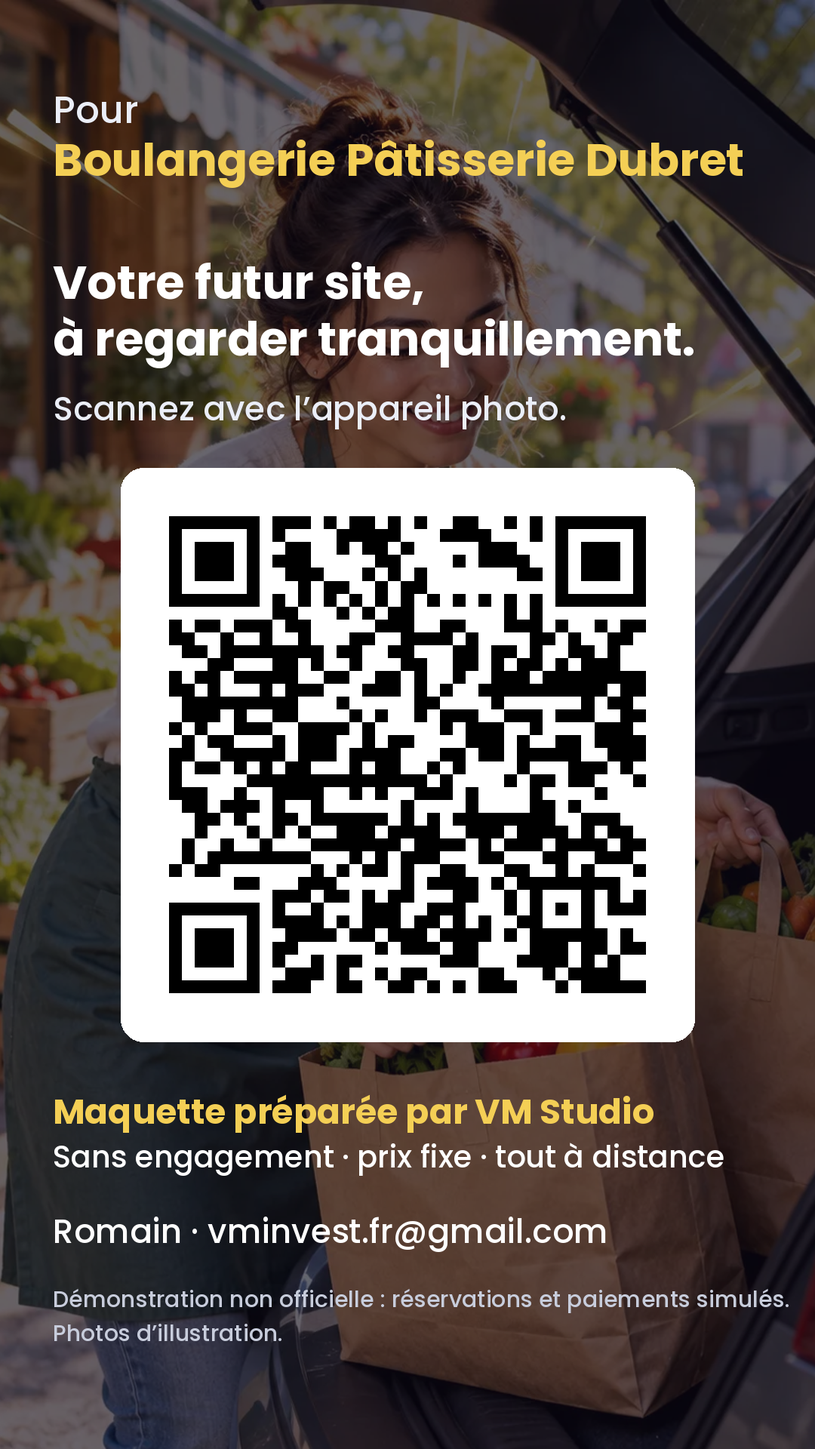
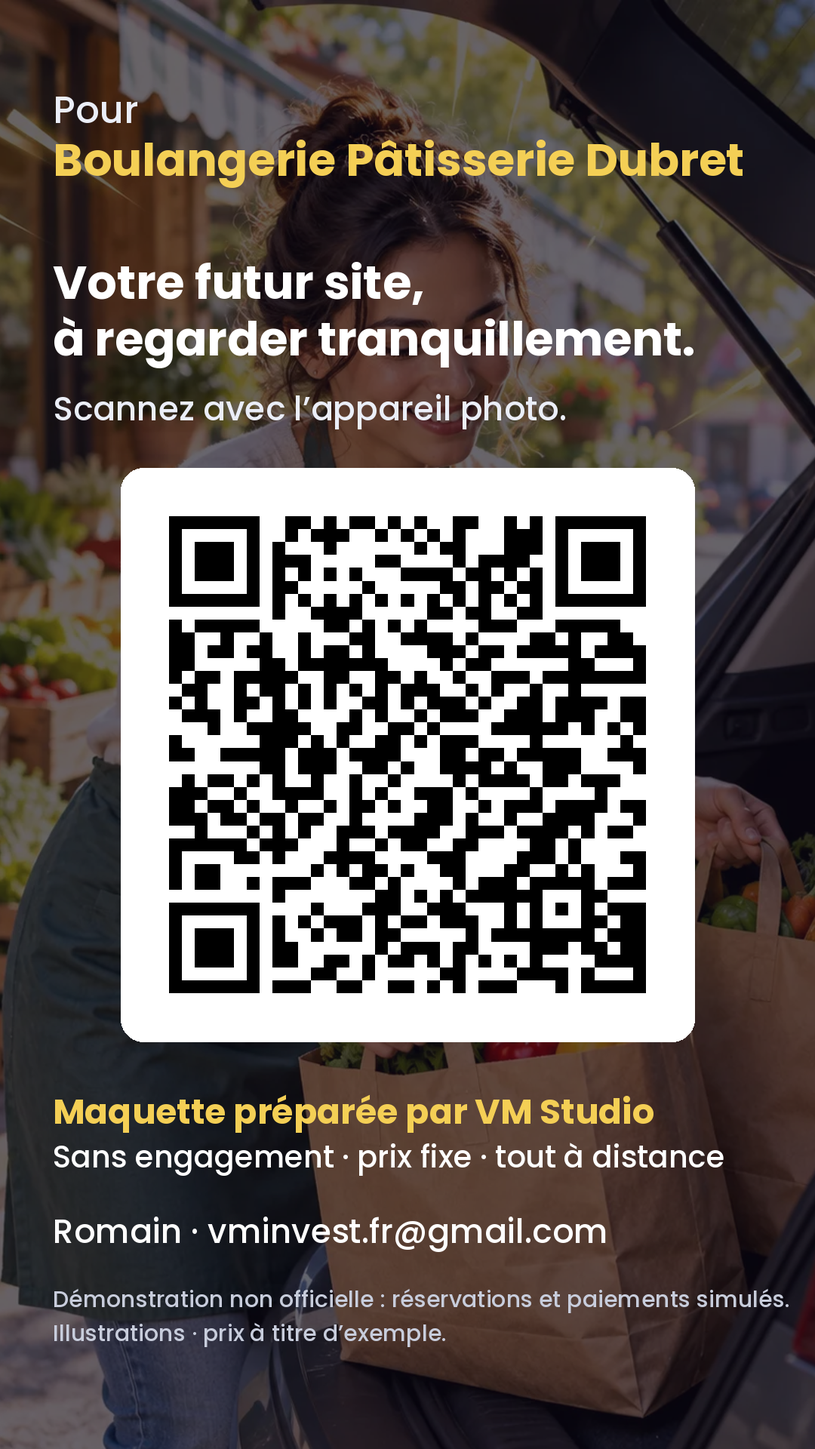
Démos clients : sans date de fin (choix de Romain), prix signalés comme exemples, salons féminins
Claude-Session: https://claude.ai/code/session_01P5NxQT71HyV29YBTs2kxP1

Changed region(s): [[0.1833, 0.3438, 0.7944, 0.6875], [0.0611, 0.9062, 0.3667, 0.9375], [0.3972, 0.9062, 0.55, 0.9375]]

diff --git a/demos/clients/ma-creation-cc11adf3a2.html b/demos/clients/ma-creation-cc11adf3a2.html
@@ -8,10 +8,22 @@
 <link rel="stylesheet" href="/demos/kit/vm-demo.css?v=20261023-audit">
 <style>:root{--a:#b4536f;--b:#e8c4a0;--ink:#2a1a22;--bg:#fbf5f2}</style>
 <link rel="preload" as="image" href="/demos/img/coiffeur/hero.webp" fetchpriority="high">
-<!-- Cloudflare Web Analytics --><script id="vm-cfwa">(function(h){if(h==='velocemercato.fr'||h==='www.velocemercato.fr'){var s=document.createElement('script');s.defer=true;s.src='https://static.cloudflareinsights.com/beacon.min.js';s.setAttribute('data-cf-beacon','{"token": "35ce3d9fb9144124a0bb97db4e89dbb2"}');document.head.appendChild(s)}})(location.hostname)</script></head><body>
-<div id="vm-exemple" style="position:sticky;top:0;z-index:99;background:#e1243a;color:#fff;font:700 14px/1.35 system-ui,sans-serif;padding:10px 14px;text-align:center">Exemple privé préparé pour Ma Création, visible jusqu’au jeudi 29 octobre à 19 h. Les photos viennent de votre page Planity et disparaissent ensuite automatiquement.</div>
+<!-- Cloudflare Web Analytics --><script id="vm-cfwa">(function(h){if(h==='velocemercato.fr'||h==='www.velocemercato.fr'){var s=document.createElement('script');s.defer=true;s.src='https://static.cloudflareinsights.com/beacon.min.js';s.setAttribute('data-cf-beacon','{"token": "35ce3d9fb9144124a0bb97db4e89dbb2"}');document.head.appendChild(s)}})(location.hostname)</script><style id="vm-feminin">
+/* Style féminin : tons poudrés, titres élégants, sans effets BD */
+.vd-hero{background:linear-gradient(160deg,#fff6f8 0%,#fbe3ea 55%,#f5d0dc 100%)!important;color:var(--ink)!important}
+.vd-hero:before{background:radial-gradient(circle at 80% 20%,color-mix(in srgb,var(--a) 18%,transparent) 0 35%,transparent 36%)!important;opacity:1}
+.vd-hero:after{background:radial-gradient(color-mix(in srgb,var(--a) 14%,transparent) 1px,transparent 1.6px) 0 0/14px 14px!important}
+.vd-hero h1{font:italic 600 clamp(2.2rem,7vw,3.8rem)/1.05 Georgia,"Playfair Display","Times New Roman",serif!important;text-transform:none!important;text-shadow:none!important;color:var(--ink)!important;letter-spacing:0!important}
+.vd-hero p.lead{color:#4a3540!important}
+.vd-hero .vd-chip{background:#fff!important;color:var(--ink)!important;border-color:color-mix(in srgb,var(--a) 35%,#fff)!important}
+.vd-hero-art .vd-media{box-shadow:0 18px 40px color-mix(in srgb,var(--a) 30%,transparent)!important;border:3px solid #fff!important;transform:none!important}
+.vd-sfx{display:none!important}
+.vd-h h2,section h2{font-family:Georgia,"Playfair Display",serif!important;font-style:italic;text-transform:none!important;font-weight:600!important}
+.vd-btn{border-radius:999px!important}
+</style></head><body>
+<div id="vm-exemple" style="position:sticky;top:0;z-index:99;background:#e1243a;color:#fff;font:700 14px/1.35 system-ui,sans-serif;padding:10px 14px;text-align:center">Exemple privé préparé pour Ma Création. Les photos viennent de votre page publique ; elles ne sont pas réutilisées sans votre accord.</div>
 
-<div class="vd-demo"><a class="vd-universe" href="https://velocemercato.fr/web-studio.html">VM Studio</a> <span>Maquette préparée pour Ma Création · non officielle</span> <a href="https://velocemercato.fr/web-studio.html?offre=business#devis">Business · 990 € →</a></div>
+<div class="vd-demo"><a class="vd-universe" href="https://velocemercato.fr/web-studio.html">VM Studio</a> <span>Maquette préparée pour Ma Création · non officielle · prix et prestations à titre d’exemple</span> <a href="https://velocemercato.fr/web-studio.html?offre=business#devis">Business · 990 € →</a></div>
 <header class="vd-top"><div class="vd-top-in"><a class="vd-logo" href="#top"><span aria-hidden="true">✂</span><em>Ma Création</em></a>
 <nav class="vd-nav" aria-label="Sections"><a href="#tarifs">Tarifs</a><a href="#galerie">Galerie</a><a href="#infos">Infos</a></nav>
 <a class="vd-cta-top" href="#rdv">📅 Réserver</a></div></header>
@@ -60,14 +72,7 @@
 <footer class="vd-foot">Maquette réalisée par <a href="https://velocemercato.fr/web-studio.html">VM Studio</a> à partir d’informations publiques, avant validation par Ma Création. Photos du salon issues de sa page Planity, affichées jusqu’au jeudi 29 octobre à 19 h pour cet exemple privé. Les prix suivis de « (exemple) » sont à confirmer. · <a href="https://vmunivers.fr/">VM Univers</a></footer>
 
 <script>
-window.DEMO={"id": "client-ma-creation-cc11adf3a2", "name": "Ma Création", "tagline": "Salon de coiffure mixte & barbier à Valdoie, réservation en ligne", "refPrefix": "MC", "address": "43 rue de Turenne, 90300 Valdoie", "rating": "5,0", "hours": {"1": [["09:00", "20:00"]], "2": [["09:00", "20:00"]], "3": [], "4": [["09:00", "20:00"]], "5": [["09:00", "20:00"]], "6": [], "0": []}, "booking": {"kind": "service", "step": 15, "lead": 45, "rate": 32, "staff": [{"name": "Coiffeuse", "role": "Coiffeuse", "e": "💇♀"}, {"name": "Barbier", "role": "Barbier", "e": "🧔"}, {"name": "Coloriste", "role": "Coloriste", "e": "👩🎨"}], "services": [{"cat": "Homme", "name": "Coupe homme", "desc": "Shampoing, coupe, coiffage. (exemple)", "price": 22, "dur": 30, "e": "💇♂", "img": "https://res.cloudinary.com/planity/image/upload/t_d_search,f_auto/lkeixcpn2mchr8gkkfpt", "img_orig": "/demos/img/coiffeur/galerie-1.webp"}, {"cat": "Homme", "name": "Dégradé & finitions", "desc": "Dégradé net à la tondeuse, finitions au rasoir. (exemple)", "price": 25, "dur": 30, "e": "💈", "img": "https://res.cloudinary.com/planity/image/upload/t_d_search,f_auto/xohtj0ec2gmrjq3cnfwq", "tag": "Best-seller", "img_orig": "/demos/img/coiffeur/galerie-1.webp"}, {"cat": "Homme", "name": "Coupe + taille de barbe", "desc": "Coupe, barbe soignée, serviette chaude. (exemple)", "price": 35, "dur": 45, "e": "🧔", "img": "https://res.cloudinary.com/planity/image/upload/t_d_search,f_auto/na2xisdexn80geh3diuv", "img_orig": "/demos/img/coiffeur/galerie-2.webp"}, {"cat": "Homme", "name": "Enfant (-12 ans)", "desc": "Coupe tranquille, patience garantie. (exemple)", "price": 15, "dur": 20, "e": "🧒", "img": ""}, {"cat": "Femme", "name": "Coupe femme", "desc": "Shampoing, soin, coupe et brushing. (exemple)", "price": 42, "dur": 60, "e": "💇♀", "img": "https://res.cloudinary.com/planity/image/upload/t_d_search,f_auto/jqxtjn5qs4eyretd3la2", "img_orig": "/demos/img/coiffeur/galerie-4.webp"}, {"cat": "Femme", "name": "Brushing", "desc": "Lissé, wavy ou volume. (exemple)", "price": 28, "dur": 30, "e": "💨", "img": "https://res.cloudinary.com/planity/image/upload/t_d_search,f_auto/rtfmenh0djaokoo46hlf", "img_orig": "/demos/img/coiffeur/galerie-3.webp"}, {"cat": "Femme", "name": "Chignon express (30 min)", "desc": "Attache rapide pour vos soirées et cérémonies.", "price": 39, "dur": 30, "e": "🎀", "img": "https://res.cloudinary.com/planity/image/upload/t_d_search,f_auto/vl960rkrqrc2zcv3vyuv", "img_orig": "/demos/img/coiffeur/galerie-4.webp"}, {"cat": "Femme", "name": "Chignon (60 min)", "desc": "Chignon travaillé, idéal mariage et cérémonie.", "price": 65, "dur": 60, "e": "👰", "img": "https://res.cloudinary.com/planity/image/upload/t_d_search,f_auto/aejn5plifuogxvstyy5b", "tag": "Cérémonie", "img_orig": "/demos/img/coiffeur/galerie-4.webp"}, {"cat": "Couleur", "name": "Couleur racines", "desc": "Couleur ton sur ton, soin inclus. (exemple)", "price": 48, "dur": 75, "e": "🎨", "img": "https://res.cloudinary.com/planity/image/upload/t_d_search,f_auto/i3cijzu2tle8tfsdfp8v", "img_orig": "/demos/img/coiffeur/galerie-5.webp"}, {"cat": "Couleur", "name": "Balayage", "desc": "Effet soleil naturel, patine incluse. (exemple)", "price": 89, "dur": 120, "e": "☀", "img": "https://res.cloudinary.com/planity/image/upload/t_d_search,f_auto/lkeixcpn2mchr8gkkfpt", "tag": "Signature", "img_orig": "/demos/img/coiffeur/galerie-3.webp"}, {"cat": "Soins", "name": "Lissage GKhair Juvexin (cheveux courts)", "desc": "Lissage longue durée, shampoing suivi beauté offert. Sur devis au salon.", "price": 99, "dur": 120, "e": "✨", "img": "https://res.cloudinary.com/planity/image/upload/t_d_search,f_auto/xohtj0ec2gmrjq3cnfwq", "img_orig": "/demos/img/coiffeur/galerie-3.webp"}, {"cat": "Soins", "name": "Lissage GKhair Juvexin (cheveux longs)", "desc": "Lissage longue durée, shampoing suivi beauté offert. Sur devis au salon.", "price": 149, "dur": 180, "e": "💫", "img": "https://res.cloudinary.com/planity/image/upload/t_d_search,f_auto/na2xisdexn80geh3diuv", "img_orig": "/demos/img/coiffeur/galerie-3.webp"}]}, "proKpis": ["Rendez-vous", "Chiffre prévu", "SMS automatiques", "Note Google"], "proFake": [{"ref": "MC-8F2A", "when": "Auj. 10h00", "what": "Dégradé & finitions", "staff": "Barbier", "nom": "Karim B.", "price": 25}, {"ref": "MC-3C9D", "when": "Auj. 12h15", "what": "Balayage", "staff": "Coloriste", "nom": "Sarah M.", "price": 89}, {"ref": "MC-7Q1E", "when": "Auj. 14h30", "what": "Coupe + taille de barbe", "staff": "Barbier", "nom": "Thomas L.", "price": 35}, {"ref": "MC-2M6H", "when": "Demain 9h30", "what": "Coupe femme", "staff": "Coiffeuse", "nom": "Julie R.", "price": 42}]};
-</script>
-<script>
-// Après 24 h : retour automatique aux illustrations, aucune photo du salon n'est plus affichée.
-(function(){var fin=Date.parse('2026-10-29T18:00:00Z');if(Date.now()<fin)return;
-document.getElementById('vm-exemple').textContent='Exemple de site préparé par VM Studio (illustrations).';
-document.querySelectorAll('[data-orig]').forEach(function(e){e.setAttribute('data-img',e.getAttribute('data-orig'))});
-if(window.DEMO&&DEMO.booking)DEMO.booking.services.forEach(function(v){if(v.img_orig)v.img=v.img_orig});})();
+window.DEMO={"id": "client-ma-creation-cc11adf3a2", "name": "Ma Création", "tagline": "Salon de coiffure mixte & barbier à Valdoie, réservation en ligne", "refPrefix": "MC", "address": "43 rue de Turenne, 90300 Valdoie", "rating": "5,0", "hours": {"1": [["09:00", "20:00"]], "2": [["09:00", "20:00"]], "3": [], "4": [["09:00", "20:00"]], "5": [["09:00", "20:00"]], "6": [], "0": []}, "booking": {"kind": "service", "step": 15, "lead": 45, "rate": 32, "staff": [{"name": "Coiffeuse", "role": "Coiffeuse", "e": "💇♀"}, {"name": "Barbier", "role": "Barbier", "e": "🧔"}, {"name": "Coloriste", "role": "Coloriste", "e": "👩🎨"}], "services": [{"cat": "Femme", "name": "Coupe femme", "desc": "Shampoing, soin, coupe et brushing. (exemple)", "price": 42, "dur": 60, "e": "💇♀", "img": "https://res.cloudinary.com/planity/image/upload/t_d_search,f_auto/jqxtjn5qs4eyretd3la2", "img_orig": "/demos/img/coiffeur/galerie-4.webp"}, {"cat": "Femme", "name": "Brushing", "desc": "Lissé, wavy ou volume. (exemple)", "price": 28, "dur": 30, "e": "💨", "img": "https://res.cloudinary.com/planity/image/upload/t_d_search,f_auto/rtfmenh0djaokoo46hlf", "img_orig": "/demos/img/coiffeur/galerie-3.webp"}, {"cat": "Femme", "name": "Chignon express (30 min)", "desc": "Attache rapide pour vos soirées et cérémonies.", "price": 39, "dur": 30, "e": "🎀", "img": "https://res.cloudinary.com/planity/image/upload/t_d_search,f_auto/vl960rkrqrc2zcv3vyuv", "img_orig": "/demos/img/coiffeur/galerie-4.webp"}, {"cat": "Femme", "name": "Chignon (60 min)", "desc": "Chignon travaillé, idéal mariage et cérémonie.", "price": 65, "dur": 60, "e": "👰", "img": "https://res.cloudinary.com/planity/image/upload/t_d_search,f_auto/aejn5plifuogxvstyy5b", "tag": "Cérémonie", "img_orig": "/demos/img/coiffeur/galerie-4.webp"}, {"cat": "Couleur", "name": "Couleur racines", "desc": "Couleur ton sur ton, soin inclus. (exemple)", "price": 48, "dur": 75, "e": "🎨", "img": "https://res.cloudinary.com/planity/image/upload/t_d_search,f_auto/i3cijzu2tle8tfsdfp8v", "img_orig": "/demos/img/coiffeur/galerie-5.webp"}, {"cat": "Couleur", "name": "Balayage", "desc": "Effet soleil naturel, patine incluse. (exemple)", "price": 89, "dur": 120, "e": "☀", "img": "https://res.cloudinary.com/planity/image/upload/t_d_search,f_auto/lkeixcpn2mchr8gkkfpt", "tag": "Signature", "img_orig": "/demos/img/coiffeur/galerie-3.webp"}, {"cat": "Soins", "name": "Lissage GKhair Juvexin (cheveux courts)", "desc": "Lissage longue durée, shampoing suivi beauté offert. Sur devis au salon.", "price": 99, "dur": 120, "e": "✨", "img": "https://res.cloudinary.com/planity/image/upload/t_d_search,f_auto/xohtj0ec2gmrjq3cnfwq", "img_orig": "/demos/img/coiffeur/galerie-3.webp"}, {"cat": "Soins", "name": "Lissage GKhair Juvexin (cheveux longs)", "desc": "Lissage longue durée, shampoing suivi beauté offert. Sur devis au salon.", "price": 149, "dur": 180, "e": "💫", "img": "https://res.cloudinary.com/planity/image/upload/t_d_search,f_auto/na2xisdexn80geh3diuv", "img_orig": "/demos/img/coiffeur/galerie-3.webp"}, {"cat": "Homme", "name": "Coupe homme", "desc": "Shampoing, coupe, coiffage. (exemple)", "price": 22, "dur": 30, "e": "💇♂", "img": "https://res.cloudinary.com/planity/image/upload/t_d_search,f_auto/lkeixcpn2mchr8gkkfpt", "img_orig": "/demos/img/coiffeur/galerie-1.webp"}, {"cat": "Homme", "name": "Dégradé & finitions", "desc": "Dégradé net à la tondeuse, finitions au rasoir. (exemple)", "price": 25, "dur": 30, "e": "💈", "img": "https://res.cloudinary.com/planity/image/upload/t_d_search,f_auto/xohtj0ec2gmrjq3cnfwq", "tag": "Best-seller", "img_orig": "/demos/img/coiffeur/galerie-1.webp"}, {"cat": "Homme", "name": "Coupe + taille de barbe", "desc": "Coupe, barbe soignée, serviette chaude. (exemple)", "price": 35, "dur": 45, "e": "🧔", "img": "https://res.cloudinary.com/planity/image/upload/t_d_search,f_auto/na2xisdexn80geh3diuv", "img_orig": "/demos/img/coiffeur/galerie-2.webp"}, {"cat": "Homme", "name": "Enfant (-12 ans)", "desc": "Coupe tranquille, patience garantie. (exemple)", "price": 15, "dur": 20, "e": "🧒", "img": ""}]}, "proKpis": ["Rendez-vous", "Chiffre prévu", "SMS automatiques", "Note Google"], "proFake": [{"ref": "MC-8F2A", "when": "Auj. 10h00", "what": "Dégradé & finitions", "staff": "Barbier", "nom": "Karim B.", "price": 25}, {"ref": "MC-3C9D", "when": "Auj. 12h15", "what": "Balayage", "staff": "Coloriste", "nom": "Sarah M.", "price": 89}, {"ref": "MC-7Q1E", "when": "Auj. 14h30", "what": "Coupe + taille de barbe", "staff": "Barbier", "nom": "Thomas L.", "price": 35}, {"ref": "MC-2M6H", "when": "Demain 9h30", "what": "Coupe femme", "staff": "Coiffeuse", "nom": "Julie R.", "price": 42}]};
 </script>
 <script src="/demos/kit/vm-demo.js?v=20261023-audit"></script>
 <script>

diff --git a/demos/clients/coupe-et-coiff-3cd45d18dc.html b/demos/clients/coupe-et-coiff-3cd45d18dc.html
@@ -8,8 +8,20 @@
 <link rel="stylesheet" href="/demos/kit/vm-demo.css?v=20261023-audit">
 <style>:root{--a:#B5476B;--b:#E9B8C8;--ink:#2B1A22;--bg:#FFF6F8}</style>
 <link rel="preload" as="image" href="/demos/img/coiffeur/hero.webp" fetchpriority="high">
-<!-- Cloudflare Web Analytics --><script id="vm-cfwa">(function(h){if(h==='velocemercato.fr'||h==='www.velocemercato.fr'){var s=document.createElement('script');s.defer=true;s.src='https://static.cloudflareinsights.com/beacon.min.js';s.setAttribute('data-cf-beacon','{"token": "35ce3d9fb9144124a0bb97db4e89dbb2"}');document.head.appendChild(s)}})(location.hostname)</script></head><body>
-<div class="vd-demo"><a class="vd-universe" href="https://velocemercato.fr/web-studio.html">VM Studio</a> <span>Maquette préparée pour Coupe et Coiff&#x27; · non officielle</span> <a href="https://velocemercato.fr/web-studio.html?offre=business#devis">Business · 990 € →</a></div>
+<!-- Cloudflare Web Analytics --><script id="vm-cfwa">(function(h){if(h==='velocemercato.fr'||h==='www.velocemercato.fr'){var s=document.createElement('script');s.defer=true;s.src='https://static.cloudflareinsights.com/beacon.min.js';s.setAttribute('data-cf-beacon','{"token": "35ce3d9fb9144124a0bb97db4e89dbb2"}');document.head.appendChild(s)}})(location.hostname)</script><style id="vm-feminin">
+/* Style féminin : tons poudrés, titres élégants, sans effets BD */
+.vd-hero{background:linear-gradient(160deg,#fff6f8 0%,#fbe3ea 55%,#f5d0dc 100%)!important;color:var(--ink)!important}
+.vd-hero:before{background:radial-gradient(circle at 80% 20%,color-mix(in srgb,var(--a) 18%,transparent) 0 35%,transparent 36%)!important;opacity:1}
+.vd-hero:after{background:radial-gradient(color-mix(in srgb,var(--a) 14%,transparent) 1px,transparent 1.6px) 0 0/14px 14px!important}
+.vd-hero h1{font:italic 600 clamp(2.2rem,7vw,3.8rem)/1.05 Georgia,"Playfair Display","Times New Roman",serif!important;text-transform:none!important;text-shadow:none!important;color:var(--ink)!important;letter-spacing:0!important}
+.vd-hero p.lead{color:#4a3540!important}
+.vd-hero .vd-chip{background:#fff!important;color:var(--ink)!important;border-color:color-mix(in srgb,var(--a) 35%,#fff)!important}
+.vd-hero-art .vd-media{box-shadow:0 18px 40px color-mix(in srgb,var(--a) 30%,transparent)!important;border:3px solid #fff!important;transform:none!important}
+.vd-sfx{display:none!important}
+.vd-h h2,section h2{font-family:Georgia,"Playfair Display",serif!important;font-style:italic;text-transform:none!important;font-weight:600!important}
+.vd-btn{border-radius:999px!important}
+</style></head><body>
+<div class="vd-demo"><a class="vd-universe" href="https://velocemercato.fr/web-studio.html">VM Studio</a> <span>Maquette préparée pour Coupe et Coiff&#x27; · non officielle · prix et prestations à titre d’exemple</span> <a href="https://velocemercato.fr/web-studio.html?offre=business#devis">Business · 990 € →</a></div>
 <header class="vd-top"><div class="vd-top-in"><a class="vd-logo" href="#top"><span aria-hidden="true">✂</span><em>Coupe et Coiff&#x27;</em></a>
 <nav class="vd-nav" aria-label="Sections"><a href="#tarifs">Tarifs</a><a href="#galerie">Galerie</a><a href="#infos">Infos</a></nav>
 <a class="vd-cta-top" href="#rdv">📅 Réserver</a></div></header>
@@ -58,7 +70,7 @@
 <footer class="vd-foot">Maquette réalisée par <a href="https://velocemercato.fr/web-studio.html">VM Studio</a> à partir d’informations publiques, avant validation par Coupe et Coiff&#x27;. Images d’illustration : vos vraies photos les remplaceront. Les prix suivis de « (exemple) » sont à confirmer. · <a href="https://vmunivers.fr/">VM Univers</a></footer>
 
 <script>
-window.DEMO={"id": "client-coupe-et-coiff-3cd45d18dc", "name": "Coupe et Coiff'", "tagline": "Salon de coiffure femme, homme et enfant à Champagney", "refPrefix": "CC", "address": "8 Grande Rue, 70290 Champagney", "rating": "4,5", "hours": {"1": [], "2": [["09:00", "18:30"]], "3": [["09:00", "12:00"]], "4": [["09:00", "19:00"]], "5": [["09:00", "19:00"]], "6": [["09:00", "16:00"]], "0": []}, "booking": {"kind": "service", "step": 15, "lead": 45, "rate": 32, "staff": [{"name": "Coiffeur visagiste", "role": "Coupes femme, homme & enfant", "e": "💇"}, {"name": "Coloriste", "role": "Couleur, mèches & balayage", "e": "👩🎨"}], "services": [{"cat": "Homme", "name": "Coupe homme", "desc": "Shampoing, coupe, coiffage. (exemple)", "price": 20, "dur": 30, "e": "💇♂", "img": "/demos/img/coiffeur/galerie-1.webp"}, {"cat": "Homme", "name": "Coupe homme + contours", "desc": "Coupe soignée, finitions nettes à la tondeuse. (exemple)", "price": 24, "dur": 40, "e": "💈", "img": "/demos/img/coiffeur/galerie-1.webp"}, {"cat": "Enfant", "name": "Enfant (-12 ans)", "desc": "Coupe tranquille, patience garantie. (exemple)", "price": 13, "dur": 20, "e": "🧒", "img": ""}, {"cat": "Femme", "name": "Coupe femme", "desc": "Shampoing, soin, coupe et brushing. (exemple)", "price": 38, "dur": 60, "e": "💇♀", "img": "/demos/img/coiffeur/galerie-4.webp", "tag": "Best-seller"}, {"cat": "Femme", "name": "Brushing", "desc": "Lissé, wavy ou volume. (exemple)", "price": 22, "dur": 30, "e": "💨", "img": "/demos/img/coiffeur/galerie-3.webp"}, {"cat": "Femme", "name": "Chignon / coiffure de fête", "desc": "Chignon à partir de 20 €, sur mesure pour vos occasions.", "price": 20, "dur": 45, "e": "👰", "img": "/demos/img/coiffeur/galerie-4.webp"}, {"cat": "Couleur", "name": "Coloration", "desc": "Coloration à partir de 53 €, soin inclus.", "price": 53, "dur": 75, "e": "🎨", "img": "/demos/img/coiffeur/galerie-5.webp"}, {"cat": "Couleur", "name": "Mèches", "desc": "Mèches à partir de 30 €, pour illuminer votre chevelure.", "price": 30, "dur": 90, "e": "☀", "img": "/demos/img/coiffeur/galerie-3.webp", "tag": "Signature"}, {"cat": "Soins", "name": "Permanente", "desc": "Permanente à partir de 58 €, boucles souples et durables.", "price": 58, "dur": 90, "e": "✨", "img": "/demos/img/coiffeur/galerie-3.webp"}]}, "proKpis": ["Rendez-vous", "Chiffre prévu", "SMS automatiques", "Note Google"], "proFake": [{"ref": "CC-8F2A", "when": "Auj. 10h00", "what": "Coupe homme", "staff": "Coiffeur visagiste", "nom": "Karim B.", "price": 20}, {"ref": "CC-3C9D", "when": "Auj. 11h15", "what": "Mèches", "staff": "Coloriste", "nom": "Sarah M.", "price": 30}, {"ref": "CC-7Q1E", "when": "Auj. 14h30", "what": "Coupe femme", "staff": "Coiffeur visagiste", "nom": "Julie R.", "price": 38}, {"ref": "CC-2M6H", "when": "Demain 9h00", "what": "Coloration", "staff": "Coloriste", "nom": "Martine D.", "price": 53}]};
+window.DEMO={"id": "client-coupe-et-coiff-3cd45d18dc", "name": "Coupe et Coiff'", "tagline": "Salon de coiffure femme, homme et enfant à Champagney", "refPrefix": "CC", "address": "8 Grande Rue, 70290 Champagney", "rating": "4,5", "hours": {"1": [], "2": [["09:00", "18:30"]], "3": [["09:00", "12:00"]], "4": [["09:00", "19:00"]], "5": [["09:00", "19:00"]], "6": [["09:00", "16:00"]], "0": []}, "booking": {"kind": "service", "step": 15, "lead": 45, "rate": 32, "staff": [{"name": "Coiffeur visagiste", "role": "Coupes femme, homme & enfant", "e": "💇"}, {"name": "Coloriste", "role": "Couleur, mèches & balayage", "e": "👩🎨"}], "services": [{"cat": "Femme", "name": "Coupe femme", "desc": "Shampoing, soin, coupe et brushing. (exemple)", "price": 38, "dur": 60, "e": "💇♀", "img": "/demos/img/coiffeur/galerie-4.webp", "tag": "Best-seller"}, {"cat": "Femme", "name": "Brushing", "desc": "Lissé, wavy ou volume. (exemple)", "price": 22, "dur": 30, "e": "💨", "img": "/demos/img/coiffeur/galerie-3.webp"}, {"cat": "Femme", "name": "Chignon / coiffure de fête", "desc": "Chignon à partir de 20 €, sur mesure pour vos occasions.", "price": 20, "dur": 45, "e": "👰", "img": "/demos/img/coiffeur/galerie-4.webp"}, {"cat": "Couleur", "name": "Coloration", "desc": "Coloration à partir de 53 €, soin inclus.", "price": 53, "dur": 75, "e": "🎨", "img": "/demos/img/coiffeur/galerie-5.webp"}, {"cat": "Couleur", "name": "Mèches", "desc": "Mèches à partir de 30 €, pour illuminer votre chevelure.", "price": 30, "dur": 90, "e": "☀", "img": "/demos/img/coiffeur/galerie-3.webp", "tag": "Signature"}, {"cat": "Soins", "name": "Permanente", "desc": "Permanente à partir de 58 €, boucles souples et durables.", "price": 58, "dur": 90, "e": "✨", "img": "/demos/img/coiffeur/galerie-3.webp"}, {"cat": "Homme", "name": "Coupe homme", "desc": "Shampoing, coupe, coiffage. (exemple)", "price": 20, "dur": 30, "e": "💇♂", "img": "/demos/img/coiffeur/galerie-1.webp"}, {"cat": "Homme", "name": "Coupe homme + contours", "desc": "Coupe soignée, finitions nettes à la tondeuse. (exemple)", "price": 24, "dur": 40, "e": "💈", "img": "/demos/img/coiffeur/galerie-1.webp"}, {"cat": "Enfant", "name": "Enfant (-12 ans)", "desc": "Coupe tranquille, patience garantie. (exemple)", "price": 13, "dur": 20, "e": "🧒", "img": ""}]}, "proKpis": ["Rendez-vous", "Chiffre prévu", "SMS automatiques", "Note Google"], "proFake": [{"ref": "CC-8F2A", "when": "Auj. 10h00", "what": "Coupe homme", "staff": "Coiffeur visagiste", "nom": "Karim B.", "price": 20}, {"ref": "CC-3C9D", "when": "Auj. 11h15", "what": "Mèches", "staff": "Coloriste", "nom": "Sarah M.", "price": 30}, {"ref": "CC-7Q1E", "when": "Auj. 14h30", "what": "Coupe femme", "staff": "Coiffeur visagiste", "nom": "Julie R.", "price": 38}, {"ref": "CC-2M6H", "when": "Demain 9h00", "what": "Coloration", "staff": "Coloriste", "nom": "Martine D.", "price": 53}]};
 </script>
 <script src="/demos/kit/vm-demo.js?v=20261023-audit"></script>
 <script>

diff --git a/demos/clients/le-belfortain-coiffure-et-barb-303ff37428.html b/demos/clients/le-belfortain-coiffure-et-barb-303ff37428.html
@@ -9,8 +9,8 @@
 <style>:root{--a:#b8864b;--b:#1f2a37;--ink:#14181f;--bg:#f7f3ee}</style>
 <link rel="preload" as="image" href="/demos/img/coiffeur/hero.webp" fetchpriority="high">
 <!-- Cloudflare Web Analytics --><script id="vm-cfwa">(function(h){if(h==='velocemercato.fr'||h==='www.velocemercato.fr'){var s=document.createElement('script');s.defer=true;s.src='https://static.cloudflareinsights.com/beacon.min.js';s.setAttribute('data-cf-beacon','{"token": "35ce3d9fb9144124a0bb97db4e89dbb2"}');document.head.appendChild(s)}})(location.hostname)</script></head><body>
-<div id="vm-exemple" style="position:sticky;top:0;z-index:99;background:#e1243a;color:#fff;font:700 14px/1.35 system-ui,sans-serif;padding:10px 14px;text-align:center">Exemple privé préparé pour Le Belfortain Coiffure et Barbier, valable 48 h. Les photos viennent de votre page publique et disparaissent ensuite automatiquement.</div>
-<div class="vd-demo"><a class="vd-universe" href="https://velocemercato.fr/web-studio.html">VM Studio</a> <span>Maquette préparée pour Le Belfortain Coiffure et Barbier · non officielle</span> <a href="https://velocemercato.fr/web-studio.html?offre=business#devis">Business · 990 € →</a></div>
+<div id="vm-exemple" style="position:sticky;top:0;z-index:99;background:#e1243a;color:#fff;font:700 14px/1.35 system-ui,sans-serif;padding:10px 14px;text-align:center">Exemple privé préparé pour Le Belfortain Coiffure et Barbier. Les photos viennent de votre page publique ; elles ne sont pas réutilisées sans votre accord.</div>
+<div class="vd-demo"><a class="vd-universe" href="https://velocemercato.fr/web-studio.html">VM Studio</a> <span>Maquette préparée pour Le Belfortain Coiffure et Barbier · non officielle · prix et prestations à titre d’exemple</span> <a href="https://velocemercato.fr/web-studio.html?offre=business#devis">Business · 990 € →</a></div>
 <header class="vd-top"><div class="vd-top-in"><a class="vd-logo" href="#top"><span aria-hidden="true">✂</span><em>Le Belfortain Coiffure et Barbier</em></a>
 <nav class="vd-nav" aria-label="Sections"><a href="#tarifs">Tarifs</a><a href="#galerie">Galerie</a><a href="#infos">Infos</a></nav>
 <a class="vd-cta-top" href="#rdv">📅 Réserver</a></div></header>
@@ -56,14 +56,10 @@
 <ul><li>Moins d’appels pendant les coupes, moins de rendez-vous oubliés</li><li>Vos clients réservent même quand le salon est fermé</li><li>Mises à jour gérées pour vous (tarifs, photos, horaires)</li></ul></div>
 <div class="vd-btns"><a class="vd-btn" href="https://velocemercato.fr/web-studio.html?offre=business#devis">Je veux ce site →</a><a class="vd-btn alt" href="/web-studio.html#tarifs">Voir les formules</a></div></section>
 </main>
-<footer class="vd-foot">Maquette réalisée par <a href="https://velocemercato.fr/web-studio.html">VM Studio</a> à partir d’informations publiques, avant validation par Le Belfortain Coiffure et Barbier. Photos issues de la page publique du commerce, affichées 48 h pour cet exemple privé. Les prix suivis de « (exemple) » sont à confirmer. · <a href="https://vmunivers.fr/">VM Univers</a></footer>
+<footer class="vd-foot">Maquette réalisée par <a href="https://velocemercato.fr/web-studio.html">VM Studio</a> à partir d’informations publiques, avant validation par Le Belfortain Coiffure et Barbier. Photos issues de la page publique du commerce, pour cet exemple privé. Les prix suivis de « (exemple) » sont à confirmer. · <a href="https://vmunivers.fr/">VM Univers</a></footer>
 
 <script>
 window.DEMO={"id": "client-le-belfortain-coiffure-et-barb-303ff37428", "name": "Le Belfortain Coiffure et Barbier", "tagline": "Coiffeur & barbier à Valdoie, réservation en ligne", "refPrefix": "BF", "address": "8 rue de Turenne, 90300 Valdoie", "rating": "—", "hours": {"1": [["09:00", "13:00"], ["14:00", "19:00"]], "2": [["09:00", "13:00"], ["14:00", "19:00"]], "3": [["09:00", "13:00"], ["14:00", "19:00"]], "4": [["09:00", "13:00"], ["14:00", "19:00"]], "5": [["09:00", "13:00"], ["14:00", "19:00"]], "6": [["09:00", "19:00"]], "0": []}, "booking": {"kind": "service", "step": 15, "lead": 45, "rate": 32, "staff": [{"name": "Hemza", "role": "Coiffeur-barbier", "e": "🧔"}], "services": [{"cat": "Enfant", "name": "Coupe enfant (-10 ans)", "desc": "Une coupe soignée pour les petits, dans la bonne humeur.", "price": 10, "dur": 30, "e": "🧒", "img": ""}, {"cat": "Enfant", "name": "Coupe junior (-17 ans)", "desc": "Coupe tendance pour les ados, à leur goût.", "price": 13, "dur": 30, "e": "💇♂", "img": "https://www.bottin.fr/pictheme/coiffeur.jpg", "img_orig": "/demos/img/coiffeur/galerie-1.webp"}, {"cat": "Homme", "name": "Coupe sans shampooing", "desc": "Coupe cheveux courts, nette et rapide.", "price": 15, "dur": 30, "e": "✂", "img": "https://res.cloudinary.com/planity/image/upload/t_d_search,f_auto/cuiqqmncmlnfvecg6ivw", "img_orig": "/demos/img/coiffeur/galerie-1.webp"}, {"cat": "Homme", "name": "Coupe + shampooing cheveux courts", "desc": "Shampooing, coupe et coiffage.", "price": 18, "dur": 30, "e": "💇♂", "img": "https://res.cloudinary.com/planity/image/upload/t_d_search,f_auto/p3obdrsllqt8u4mtbttv", "img_orig": "/demos/img/coiffeur/galerie-1.webp"}, {"cat": "Homme", "name": "Coupe + shampooing cheveux mi-longs", "desc": "Shampooing, coupe et coiffage sur mesure.", "price": 22, "dur": 30, "e": "💇♂", "img": "https://res.cloudinary.com/planity/image/upload/t_d_search,f_auto/he86979wr98r3dieao5g", "img_orig": "/demos/img/coiffeur/galerie-1.webp"}, {"cat": "Homme", "name": "Coupe + shampooing cheveux longs", "desc": "Shampooing, coupe et coiffage pour cheveux longs.", "price": 28, "dur": 30, "e": "💈", "img": "https://www.bottin.fr/pictheme/coiffeur.jpg", "img_orig": "/demos/img/coiffeur/galerie-1.webp"}, {"cat": "Coupe + barbe", "name": "Coupe + Barbe Express", "desc": "Coupe et taille de barbe courte à la tondeuse.", "price": 20, "dur": 30, "e": "🧔", "img": "https://res.cloudinary.com/planity/image/upload/t_d_search,f_auto/cuiqqmncmlnfvecg6ivw", "img_orig": "/demos/img/coiffeur/galerie-2.webp"}, {"cat": "Coupe + barbe", "name": "Coupe + Barbe Signature", "desc": "Coupe, taille de barbe avec contours à la lame et soin de barbe adapté.", "price": 25, "dur": 30, "e": "💈", "img": "https://res.cloudinary.com/planity/image/upload/t_d_search,f_auto/p3obdrsllqt8u4mtbttv", "tag": "Recommandé", "img_orig": "/demos/img/coiffeur/galerie-2.webp"}, {"cat": "Coupe + barbe", "name": "Coupe + Barbe Premium", "desc": "Le Signature complété d'un shampooing.", "price": 28, "dur": 30, "e": "✨", "img": "https://res.cloudinary.com/planity/image/upload/t_d_search,f_auto/he86979wr98r3dieao5g", "img_orig": "/demos/img/coiffeur/galerie-2.webp"}, {"cat": "Barbe", "name": "Barbe Express", "desc": "Taille de barbe courte à la tondeuse.", "price": 10, "dur": 30, "e": "🧔", "img": "https://www.bottin.fr/pictheme/coiffeur.jpg", "img_orig": "/demos/img/coiffeur/galerie-2.webp"}, {"cat": "Barbe", "name": "Barbe Signature", "desc": "Taille, contours à la lame et soin de barbe adapté.", "price": 15, "dur": 30, "e": "💈", "img": "https://res.cloudinary.com/planity/image/upload/t_d_search,f_auto/cuiqqmncmlnfvecg6ivw", "tag": "Recommandé", "img_orig": "/demos/img/coiffeur/galerie-2.webp"}, {"cat": "Barbe", "name": "Barbe Premium", "desc": "Barbe Signature avec rituel serviette chaude et vapeur.", "price": 20, "dur": 30, "e": "♨", "img": "https://res.cloudinary.com/planity/image/upload/t_d_search,f_auto/p3obdrsllqt8u4mtbttv", "tag": "Détente", "img_orig": "/demos/img/coiffeur/galerie-2.webp"}, {"cat": "Femme", "name": "Coupe femme cheveux très courts", "desc": "Shampooing, coupe et coiffage.", "price": 25, "dur": 30, "e": "💇♀", "img": "https://res.cloudinary.com/planity/image/upload/t_d_search,f_auto/he86979wr98r3dieao5g", "img_orig": "/demos/img/coiffeur/galerie-4.webp"}, {"cat": "Femme", "name": "Coupe femme cheveux courts", "desc": "Shampooing, coupe et coiffage.", "price": 32, "dur": 30, "e": "💇♀", "img": "https://www.bottin.fr/pictheme/coiffeur.jpg", "img_orig": "/demos/img/coiffeur/galerie-4.webp"}]}, "proKpis": ["Rendez-vous", "Chiffre prévu", "SMS automatiques", "Note Google"], "proFake": [{"ref": "BF-8F2A", "when": "Auj. 10h00", "what": "Coupe + Barbe Signature", "staff": "Hemza", "nom": "Karim B.", "price": 25}, {"ref": "BF-3C9D", "when": "Auj. 11h00", "what": "Barbe Premium", "staff": "Hemza", "nom": "Thomas L.", "price": 20}, {"ref": "BF-7Q1E", "when": "Auj. 14h30", "what": "Coupe enfant (-10 ans)", "staff": "Hemza", "nom": "Lucas M.", "price": 10}, {"ref": "BF-2M6H", "when": "Demain 9h30", "what": "Coupe + shampooing cheveux mi-longs", "staff": "Hemza", "nom": "Julien R.", "price": 22}]};
-</script>
-<script>
-// Après le délai : retour automatique aux illustrations.
-(function(){var fin=Date.parse('2026-10-29T16:03:50Z');if(Date.now()<fin)return;document.getElementById('vm-exemple').textContent='Exemple de site préparé par VM Studio (illustrations).';document.querySelectorAll('[data-orig]').forEach(function(e){e.setAttribute('data-img',e.getAttribute('data-orig'))});if(window.DEMO){[DEMO.booking&&DEMO.booking.services,DEMO.order&&DEMO.order.items,DEMO.order&&DEMO.order.products].forEach(function(l){(l||[]).forEach(function(v){if(v.img_orig)v.img=v.img_orig})})}})();
 </script>
 <script src="/demos/kit/vm-demo.js?v=20261023-audit"></script>
 <script>

diff --git a/demos/clients/boulangerie-patisserie-dubret-051a09c5a7.html b/demos/clients/boulangerie-patisserie-dubret-051a09c5a7.html
@@ -12,7 +12,7 @@
 .how div:before{content:counter(h);display:grid;place-items:center;width:34px;height:34px;border-radius:50%;background:var(--a);border:2px solid var(--line);font:italic 900 1.2rem Impact,"Arial Black",sans-serif;margin-bottom:6px}</style>
 <link rel="preload" as="image" href="/demos/img/drive/hero.webp" fetchpriority="high">
 <!-- Cloudflare Web Analytics --><script id="vm-cfwa">(function(h){if(h==='velocemercato.fr'||h==='www.velocemercato.fr'){var s=document.createElement('script');s.defer=true;s.src='https://static.cloudflareinsights.com/beacon.min.js';s.setAttribute('data-cf-beacon','{"token": "35ce3d9fb9144124a0bb97db4e89dbb2"}');document.head.appendChild(s)}})(location.hostname)</script></head><body>
-<div class="vd-demo"><a class="vd-universe" href="https://velocemercato.fr/web-studio.html">VM Studio</a> <span>Maquette préparée pour Boulangerie Pâtisserie Dubret · non officielle</span> <a href="https://velocemercato.fr/web-studio.html?offre=max#devis">Max · 1490 € →</a></div>
+<div class="vd-demo"><a class="vd-universe" href="https://velocemercato.fr/web-studio.html">VM Studio</a> <span>Maquette préparée pour Boulangerie Pâtisserie Dubret · non officielle · prix et prestations à titre d’exemple</span> <a href="https://velocemercato.fr/web-studio.html?offre=max#devis">Max · 1490 € →</a></div>
 <header class="vd-top"><div class="vd-top-in"><a class="vd-logo" href="#top"><span aria-hidden="true">🛒</span><em>Boulangerie Pâtisserie Dubret</em></a>
 <nav class="vd-nav" aria-label="Sections"><a href="#rayons">Rayons</a><a href="#comment">Comment ça marche</a><a href="#infos">Infos</a></nav>
 <a class="vd-cta-top" href="#rayons">🛒 Mes courses</a></div></header>

diff --git a/demos/clients/pizzeria-le-napoli-fab2599d78.html b/demos/clients/pizzeria-le-napoli-fab2599d78.html
@@ -12,7 +12,7 @@
 .promo .vd-panel b{font:italic 900 1.5rem/1 Impact,"Arial Black",sans-serif;text-transform:uppercase;display:block;margin-bottom:6px;color:var(--a)}</style>
 <link rel="preload" as="image" href="/demos/img/snack/hero.webp" fetchpriority="high">
 <!-- Cloudflare Web Analytics --><script id="vm-cfwa">(function(h){if(h==='velocemercato.fr'||h==='www.velocemercato.fr'){var s=document.createElement('script');s.defer=true;s.src='https://static.cloudflareinsights.com/beacon.min.js';s.setAttribute('data-cf-beacon','{"token": "35ce3d9fb9144124a0bb97db4e89dbb2"}');document.head.appendChild(s)}})(location.hostname)</script></head><body>
-<div class="vd-demo"><a class="vd-universe" href="https://velocemercato.fr/web-studio.html">VM Studio</a> <span>Maquette préparée pour Pizzeria Le Napoli · non officielle</span> <a href="https://velocemercato.fr/web-studio.html?offre=max#devis">Max · 1490 € →</a></div>
+<div class="vd-demo"><a class="vd-universe" href="https://velocemercato.fr/web-studio.html">VM Studio</a> <span>Maquette préparée pour Pizzeria Le Napoli · non officielle · prix et prestations à titre d’exemple</span> <a href="https://velocemercato.fr/web-studio.html?offre=max#devis">Max · 1490 € →</a></div>
 <header class="vd-top"><div class="vd-top-in"><a class="vd-logo" href="#top"><span aria-hidden="true">🌯</span><em>Pizzeria Le Napoli</em></a>
 <nav class="vd-nav" aria-label="Sections"><a href="#carte">La carte</a><a href="#promos">Promos</a><a href="#galerie">Photos</a><a href="#infos">Infos</a></nav>
 <a class="vd-cta-top" href="#carte">🛒 Commander</a></div></header>

diff --git a/studio/atelier-cf03b9883e72.html b/studio/atelier-cf03b9883e72.html
@@ -90,7 +90,7 @@ pre{white-space:pre-wrap;word-break:break-word;margin:0;font:14px/1.45 system-ui
     if(!rows||!rows.length)return;
     L.innerHTML=rows.map(function(r,i){return '<article class="demo"><h3>'+esc(r.nom)+'</h3><small>'+esc(r.ville)+' · modèle '+esc(r.modele)+' · '+esc((r.cree_le||'').slice(0,10))+'</small>'+
       '<div>Formule conseillée : <span class="price">'+esc(r.prix)+' €</span></div>'+
-      (r.photos?'<small>📸 '+esc(r.photos)+' photos du commerce jusqu’au '+esc(new Date(r.expire).toLocaleString('fr-FR',{weekday:'long',hour:'2-digit',minute:'2-digit'}))+', puis illustrations</small>':'')+
+      (r.photos?'<small>📸 '+esc(r.photos)+' photos du commerce'+(r.expire?' jusqu’au '+esc(new Date(r.expire).toLocaleString('fr-FR',{weekday:'long',hour:'2-digit',minute:'2-digit'}))+', puis illustrations':' · sans date de fin')+'</small>':'')+
       (r.qr?'<a href="'+esc(r.qr)+'" target="_blank" rel="noopener"><img src="'+esc(r.qr)+'" alt="Carte QR à montrer au commerçant" width="1080" height="1920" loading="lazy" style="width:100%;max-width:260px;height:auto;border-radius:12px;border:2px solid #000"></a>':'')+
       '<pre id="m'+i+'">'+esc(r.message)+'</pre>'+
       '<div class="row"><a class="btn" href="'+esc(r.url)+'" target="_blank" rel="noopener">👀 Voir la maquette</a>'+(r.qr?'<a class="btn alt" href="'+esc(r.qr)+'" download>📲 Enregistrer la carte QR</a>':'')+'<button type="button" class="btn alt" data-m="m'+i+'">📋 Copier le message</button></div></article>'}).join('');

diff --git a/tools/studio_extras.py b/tools/studio_extras.py
@@ -73,25 +73,31 @@ def apply_photos(page_path, photos, nom, hours=48):
                     item['img'] = photos[(n + 3) % len(photos)]
                     n += 1
         s = s[:m.start(1)] + json.dumps(d, ensure_ascii=False).replace('</', '<\\/') + s[m.end(1):]
-    fin = (dt.datetime.now(dt.timezone.utc) + dt.timedelta(hours=hours)).replace(microsecond=0)
     nom_e = html.escape(nom)
+    if hours:  # exemple limité dans le temps : retour aux illustrations après le délai
+        fin = (dt.datetime.now(dt.timezone.utc) + dt.timedelta(hours=hours)).replace(microsecond=0)
+        duree = f'valable {hours} h. Les photos viennent de votre page publique et disparaissent ensuite automatiquement.'
+        script = ('<script>\n// Après le délai : retour automatique aux illustrations.\n'
+                  f"(function(){{var fin=Date.parse('{fin.isoformat().replace('+00:00', 'Z')}');if(Date.now()<fin)return;"
+                  "document.getElementById('vm-exemple').textContent='Exemple de site préparé par VM Studio (illustrations).';"
+                  "document.querySelectorAll('[data-orig]').forEach(function(e){e.setAttribute('data-img',e.getAttribute('data-orig'))});"
+                  "if(window.DEMO){[DEMO.booking&&DEMO.booking.services,DEMO.order&&DEMO.order.items,DEMO.order&&DEMO.order.products]"
+                  ".forEach(function(l){(l||[]).forEach(function(v){if(v.img_orig)v.img=v.img_orig})})}})();\n</script>\n")
+    else:  # sans date de fin (choix de Romain) : rien ne s'efface tout seul
+        fin, script = None, ''
+        duree = 'Les photos viennent de votre page publique ; elles ne sont pas réutilisées sans votre accord.'
     banner = (f'<div id="vm-exemple" style="position:sticky;top:0;z-index:99;background:#e1243a;color:#fff;'
               f'font:700 14px/1.35 system-ui,sans-serif;padding:10px 14px;text-align:center">Exemple privé préparé pour '
-              f'{nom_e}, valable {hours} h. Les photos viennent de votre page publique et disparaissent ensuite automatiquement.</div>')
-    script = ('<script>\n// Après le délai : retour automatique aux illustrations.\n'
-              f"(function(){{var fin=Date.parse('{fin.isoformat().replace('+00:00', 'Z')}');if(Date.now()<fin)return;"
-              "document.getElementById('vm-exemple').textContent='Exemple de site préparé par VM Studio (illustrations).';"
-              "document.querySelectorAll('[data-orig]').forEach(function(e){e.setAttribute('data-img',e.getAttribute('data-orig'))});"
-              "if(window.DEMO){[DEMO.booking&&DEMO.booking.services,DEMO.order&&DEMO.order.items,DEMO.order&&DEMO.order.products]"
-              ".forEach(function(l){(l||[]).forEach(function(v){if(v.img_orig)v.img=v.img_orig})})}})();\n</script>\n")
+              f'{nom_e}. {duree}</div>')
     s = s.replace('<body>', '<body>\n' + banner, 1)
-    i = s.find('<script src="/demos/kit/vm-demo.js')
-    s = s[:i] + script + s[i:] if i >= 0 else s.replace('</body>', script + '</body>', 1)
+    if script:
+        i = s.find('<script src="/demos/kit/vm-demo.js')
+        s = s[:i] + script + s[i:] if i >= 0 else s.replace('</body>', script + '</body>', 1)
     s = s.replace('Images d’illustration : vos vraies photos les remplaceront.',
-                  f'Photos issues de la page publique du commerce, affichées {hours} h pour cet exemple privé.', 1)
+                  'Photos issues de la page publique du commerce, pour cet exemple privé.', 1)
     s = s.replace('<meta name="robots" content="noindex,nofollow">', '<meta name="robots" content="noindex,nofollow"><meta name="referrer" content="no-referrer">', 1)
     Path(page_path).write_text(s, encoding='utf-8')
-    return fin.isoformat()
+    return fin.isoformat() if fin else None
 
 
 def qr_card(url, nom, base, out, photos_ok):
@@ -131,6 +137,6 @@ def qr_card(url, nom, base, out, photos_ok):
     d.text((70, 1505), 'Sans engagement · prix fixe · tout à distance', font=f(med, 40), fill=(255, 255, 255))
     d.text((70, 1600), 'Romain · vminvest.fr@gmail.com', font=f(med, 44), fill=(255, 255, 255))
     d.text((70, 1700), 'Démonstration non officielle : réservations et paiements simulés.', font=f(med, 30), fill=(200, 205, 220))
-    d.text((70, 1745), 'Photos du commerce affichées 48 h.' if photos_ok else 'Photos d’illustration.', font=f(med, 30), fill=(200, 205, 220))
+    d.text((70, 1745), 'Photos du commerce · prix à titre d’exemple.' if photos_ok else 'Illustrations · prix à titre d’exemple.', font=f(med, 30), fill=(200, 205, 220))
     bg.save(out, 'PNG', optimize=True)
     return out

diff --git a/tools/studio_express.py b/tools/studio_express.py
@@ -207,7 +207,7 @@ def build(fields, data, slug, numero=''):
     page = sub1(r'<meta property="og:title" content="[^"]*">', f'<meta property="og:title" content="{name} – votre futur site">', page)
     page = sub1(r'<div class="vd-demo">.*?</div>',
                 f'<div class="vd-demo"><a class="vd-universe" href="{SITE}/web-studio.html">VM Studio</a> '
-                f'<span>Maquette préparée pour {name} · non officielle</span> '
+                f'<span>Maquette préparée pour {name} · non officielle · prix et prestations à titre d’exemple</span> '
                 f'<a href="{SITE}/web-studio.html?offre={offre_id}#devis">{e(offre_nom)} · {prix} € →</a></div>', page)
     page = re.sub(r'(<a class="vd-logo"[^>]*>.*?<em>).*?(</em>)', lambda mm: mm.group(1) + name + mm.group(2), page, count=1, flags=re.S)
     page = re.sub(r'(<a class="vd-logo") href="[^"]*"', r'\1 href="#top"', page, count=1)
@@ -293,10 +293,10 @@ def main():
     if 'oui' in pick(fields, 'photo').lower() or jointes:
         liens = re.findall(r'https://[^\s<>"()]+', pick(fields, 'lien'))
         photos = list(dict.fromkeys(jointes + X.find_photos(liens + [s['url'] for s in record['sources']])))[:12]
-        fin = X.apply_photos(OUT / f'{slug}.html', photos, record['nom']) if photos else None
+        fin = X.apply_photos(OUT / f'{slug}.html', photos, record['nom'], hours=None) if photos else None
     qr = None
     try:
-        X.qr_card(record['url'], record['nom'], record['modele'], OUT / f'{slug}-qr.png', bool(fin))
+        X.qr_card(record['url'], record['nom'], record['modele'], OUT / f'{slug}-qr.png', bool(photos))
         qr = f'https://velocemercato.fr/demos/clients/{slug}-qr.png'
     except Exception as exc:
         print(f'Carte QR non créée : {type(exc).__name__}', flush=True)
@@ -304,12 +304,14 @@ def main():
     rows = json.loads(index.read_text())
     for r in rows:
         if r.get('slug') == slug:
-            r.update(qr=qr, photos=len(photos) if fin else 0, expire=fin)
+            r.update(qr=qr, photos=len(photos), expire=fin)
     index.write_text(json.dumps(rows, ensure_ascii=False, indent=1), encoding='utf-8')
-    record.update(qr=qr, photos=len(photos) if fin else 0, expire=fin)
+    record.update(qr=qr, photos=len(photos), expire=fin)
     sources = '\n'.join(f'- [{s.get("nom") or s["url"]}]({s["url"]})' for s in record['sources']) or '- (aucune source trouvée : maquette faite avec tes infos)'
     faibles = '\n'.join(f'- {x}' for x in record['points_faibles'])
-    if record['photos']:
+    if record['photos'] and not record.get('expire'):
+        photo_txt = f"📸 **{record['photos']} photos du commerce** dans l'exemple privé, sans date de fin."
+    elif record['photos']:
         from zoneinfo import ZoneInfo
         fin_fr = dt.datetime.fromisoformat(record['expire']).astimezone(ZoneInfo('Europe/Paris'))
         photo_txt = (f"📸 **{record['photos']} photos du commerce** affichées en exemple privé jusqu'au "
